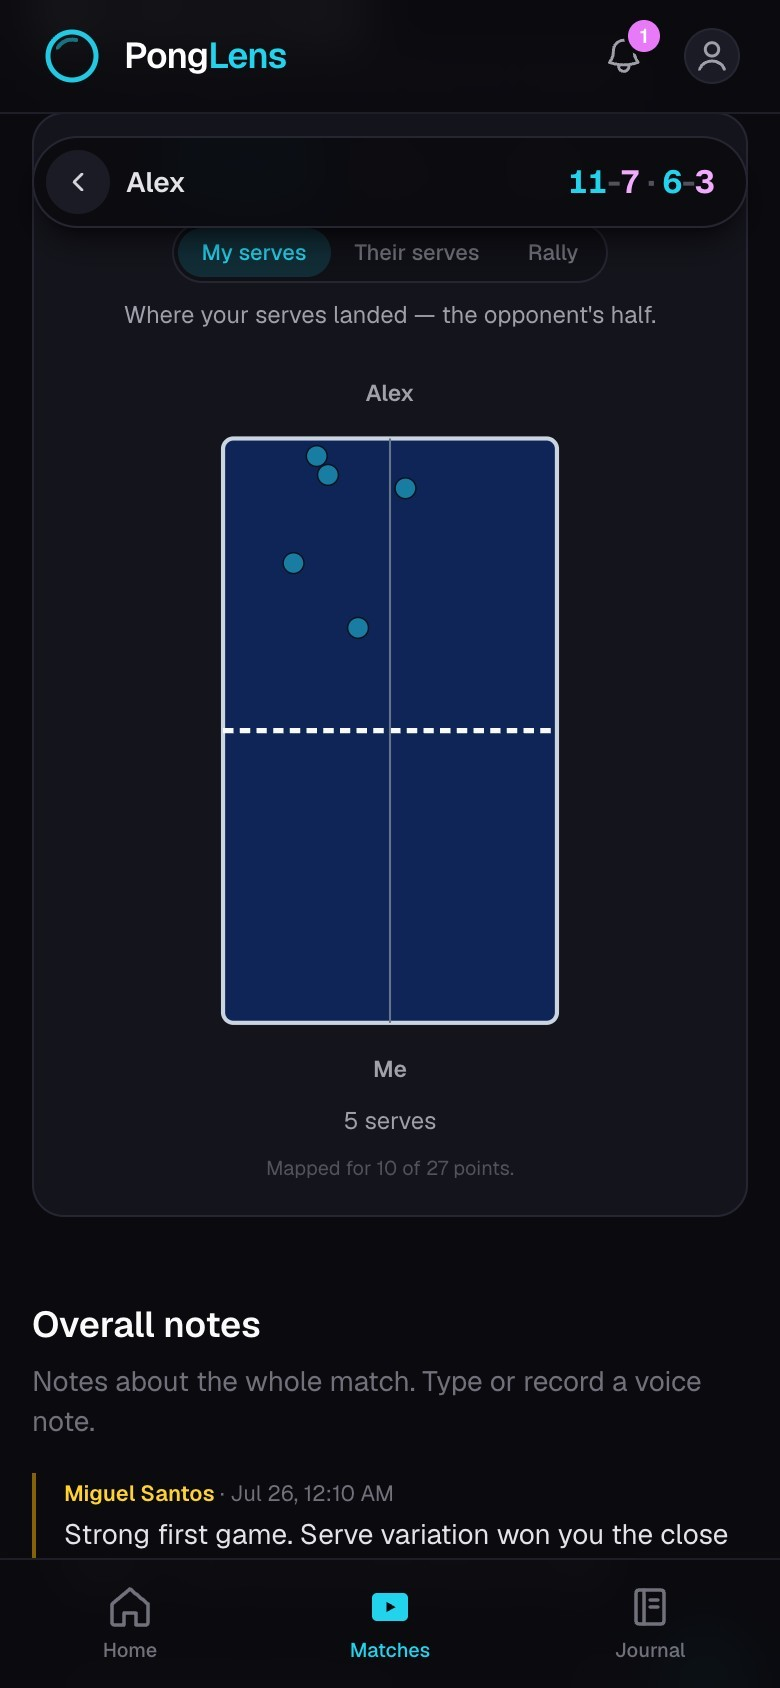
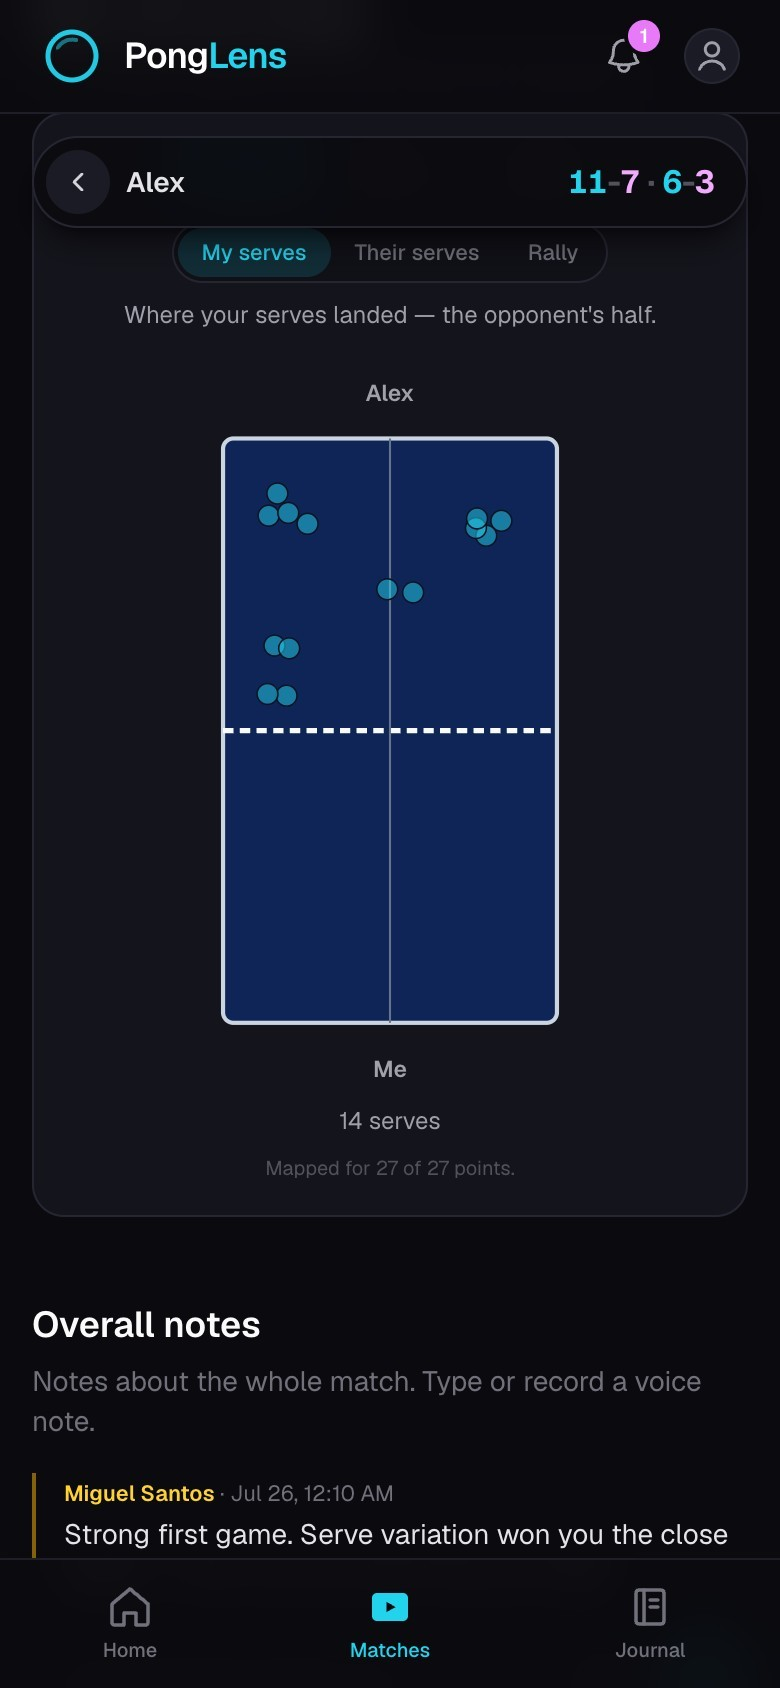
Demos: video blur pipeline + rich seeded placement data
blur_video.py extends the privacy blur to video (per-frame YOLO +
template matching, temporal union so boxes never flicker).
seed_placement.py stages dense, score-coherent v3 placement on the
demo Alex match; showcase placement stills re-shot against it.

diff --git a/scripts/demos/seed_placement.py b/scripts/demos/seed_placement.py
@@ -1,0 +1,231 @@
+#!/usr/bin/env python3
+"""Seed rich, realistic v3 placement data on the demo Alex match.
+
+    cd worker && venv/bin/python ../scripts/demos/seed_placement.py
+
+Demo staging only. The real vision output on the staged match maps too few
+points to make the ball maps look like the product at its best, so this
+replaces each point's placement HYPOTHESES with generated ones that are
+coherent with the scored facts: serve rotation decides the server, the
+seeded rally length follows the vision's n_hits, and the final shot matches
+confirmed_how (winner landing, net, out). Candidates are left untouched.
+
+Backs up every point's original placement JSON to
+scripts/demos/raw/placement-backup-<match>.json before writing. Restore:
+
+    cd worker && venv/bin/python ../scripts/demos/seed_placement.py --restore
+"""
+
+import json
+import random
+import sys
+from pathlib import Path
+
+sys.path.insert(0, str(Path(__file__).resolve().parents[2] / "worker"))
+import worker  # noqa: E402
+
+MATCH = "aa42d3b9-2109-4e02-a638-10297d0606e8"
+BACKUP = Path(__file__).resolve().parent / "raw" / f"placement-backup-{MATCH[:8]}.json"
+
+W, L, NET = 1.525, 2.74, 1.37
+
+# how the loser lost, when confirmed_how names an error
+ERROR_KIND = {
+    "missed_long": "out",
+    "missed_wide": "out",
+    "hit_into_net": "net",
+}
+
+
+def half_v(side, depth):
+    """v coordinate at `depth` (0 net .. 1 end line) into a physical half."""
+    return NET - depth * (NET - 0.16) if side == "near" else NET + depth * (L - 0.16 - NET)
+
+
+def serve_target(rng, who):
+    """(u, depth) for a serve landing, styled per player."""
+    if who == "user":
+        # mixes short-wide forehand with long backhand-corner serves
+        r = rng.random()
+        if r < 0.45:
+            return rng.uniform(1.08, 1.38), rng.uniform(0.12, 0.34)
+        if r < 0.8:
+            return rng.uniform(0.16, 0.44), rng.uniform(0.72, 0.94)
+        return rng.uniform(0.6, 0.9), rng.uniform(0.5, 0.75)
+    # opponent: mostly long into the middle/backhand
+    r = rng.random()
+    if r < 0.6:
+        return rng.uniform(0.5, 0.95), rng.uniform(0.7, 0.95)
+    if r < 0.85:
+        return rng.uniform(0.2, 0.5), rng.uniform(0.6, 0.9)
+    return rng.uniform(1.0, 1.3), rng.uniform(0.15, 0.4)
+
+
+def rally_target(rng, final=False, edge=False):
+    if edge:
+        return rng.uniform(0.3, 1.2), rng.uniform(0.96, 1.0)
+    if final:
+        # winners go to the corners / wide
+        u = rng.choice([rng.uniform(0.1, 0.32), rng.uniform(1.2, 1.42)])
+        return u, rng.uniform(0.55, 0.95)
+    return rng.uniform(0.25, 1.28), rng.uniform(0.45, 0.92)
+
+
+def event(u, v, conf, rng):
+    return {
+        "event_id": None,
+        "u": round(u, 3),
+        "v": round(v, 3),
+        "confidence": round(conf + rng.uniform(-0.06, 0.04), 2),
+        "inferred": False,
+    }
+
+
+def gen_shots(rng, server_side, server_who, winner_who, how, n_hits, pid):
+    """Coherent shot list in physical coords for one hypothesis."""
+    other_side = "far" if server_side == "near" else "near"
+    side_of = {server_who: server_side,
+               ("user" if server_who == "opponent" else "opponent"): other_side}
+    loser_who = "user" if winner_who == "opponent" else "opponent"
+
+    # ending: (final hitter, terminal kind or None-for-landing)
+    if how == "service_ace" and (n_hits or 1) <= 1:
+        ending = None                      # serve alone ends it
+    elif how in ERROR_KIND:
+        ending = (loser_who, ERROR_KIND[how])
+    elif how == "receive_error":
+        ending = (loser_who, rng.choice(["net", "out"]))
+    elif how in ("clean_winner", "edge_ball", "service_ace"):
+        ending = (winner_who, None)
+    else:  # unspecified: winner's ball lands 70%, loser error 30%
+        ending = (winner_who, None) if rng.random() < 0.7 \
+            else (loser_who, rng.choice(["net", "out"]))
+
+    n = max(1, min(n_hits or rng.randint(2, 5), 7))
+    if ending:
+        hitter_of = lambda k: server_who if k % 2 == 1 else \
+            ("user" if server_who == "opponent" else "opponent")
+        if n < 2:
+            n = 2
+        if hitter_of(n) != ending[0]:
+            n += 1
+
+    shots = []
+    for k in range(1, n + 1):
+        who = server_who if k % 2 == 1 else \
+            ("user" if server_who == "opponent" else "opponent")
+        side = side_of[who]
+        target_half = "far" if side == "near" else "near"
+        last = k == n
+        phase = "serve" if k == 1 else ("final" if last else "rally")
+        landing = None
+        terminal = None
+        if last and ending and ending[1]:
+            terminal = {"event_id": None, "kind": ending[1],
+                        "confidence": round(rng.uniform(0.72, 0.9), 2),
+                        "direction": None}
+        elif k == 1:
+            u, depth = serve_target(rng, who)
+            landing = event(u, half_v(target_half, depth), 0.88, rng)
+        else:
+            u, depth = rally_target(rng, final=last, edge=(how == "edge_ball" and last))
+            landing = event(u, half_v(target_half, depth), 0.82, rng)
+        shots.append({
+            "id": f"{pid[:8]}-s{k}",
+            "seq": k,
+            "phase": phase,
+            "hitter_side": side,
+            "contact_t": None,
+            "contact": None,
+            "serve_first_bounce": None,
+            "landing": landing,
+            "terminal": terminal,
+            "confidence": round(rng.uniform(0.74, 0.94), 2),
+        })
+    return shots
+
+
+def hypothesis(rng, server_side, server_who, winner, how, n_hits, pid, true_side):
+    conf = rng.uniform(0.86, 0.95) if true_side else rng.uniform(0.5, 0.6)
+    return {
+        "serverSide": server_side,
+        "server_side": server_side,
+        "status": "ready",
+        "confidence": round(conf, 2),
+        "score": round(conf * rng.uniform(0.9, 1.0), 2),
+        "reasons": [],
+        "hard_reasons": [],
+        "shots": gen_shots(rng, server_side, server_who, winner, how, n_hits, pid),
+        "used_event_ids": [],
+    }
+
+
+def main():
+    conn = worker.connect()
+    conn.autocommit = True
+    cur = conn.cursor()
+
+    if "--restore" in sys.argv:
+        saved = json.loads(BACKUP.read_text())
+        for pid, placement in saved.items():
+            cur.execute("update points set placement=%s::jsonb where id=%s",
+                        (json.dumps(placement), pid))
+        print(f"restored {len(saved)} points from {BACKUP.name}")
+        return
+
+    cur.execute(
+        """select id, idx, is_let, confirmed_winner, confirmed_how,
+                  coalesce((suggestion->>'n_hits')::int, 0), placement
+           from points where match_id=%s and not deleted order by idx""",
+        (MATCH,))
+    rows = cur.fetchall()
+
+    BACKUP.parent.mkdir(exist_ok=True)
+    if not BACKUP.exists():  # never clobber the original backup on re-runs
+        BACKUP.write_text(json.dumps({r[0]: r[6] for r in rows}))
+        print(f"backed up {len(rows)} placements -> {BACKUP.name}")
+
+    # walk games for rotation: 11 with 2 clear, first server alternates,
+    # 2-serve blocks (every point from 10-10). user_side='near', ends swap.
+    game, s_user, s_opp = 0, 0, 0
+    for pid, idx, is_let, winner, how, n_hits, _old in rows:
+        pre_sum = s_user + s_opp
+        first = "user" if game % 2 == 0 else "opponent"
+        block = pre_sum - 10 if min(s_user, s_opp) >= 10 else pre_sum // 2
+        server_who = first if block % 2 == 0 else \
+            ("user" if first == "opponent" else "opponent")
+        user_phys = "near" if game % 2 == 0 else "far"
+        server_phys = user_phys if server_who == "user" else \
+            ("far" if user_phys == "near" else "near")
+
+        rng = random.Random(f"{MATCH}:{idx}")
+        true_h = hypothesis(rng, server_phys, server_who, winner, how,
+                            n_hits, pid, True)
+        # counterfactual side: never selected once rotation is known, but
+        # kept coherent (as if the other side had served)
+        alt_who = "user" if server_who == "opponent" else "opponent"
+        alt_phys = "far" if server_phys == "near" else "near"
+        alt_h = hypothesis(rng, alt_phys, alt_who, winner, how,
+                           n_hits, pid, False)
+        hyps = {server_phys: true_h, alt_phys: alt_h}
+
+        cur.execute(
+            """update points set placement =
+                 jsonb_set(jsonb_set(placement, '{hypotheses}', %s::jsonb),
+                           '{status}', '"ready"')
+               where id=%s""",
+            (json.dumps(hyps), pid))
+
+        if not is_let and winner:
+            if winner == "user":
+                s_user += 1
+            else:
+                s_opp += 1
+            if max(s_user, s_opp) >= 11 and abs(s_user - s_opp) >= 2:
+                game, s_user, s_opp = game + 1, 0, 0
+
+    print(f"seeded {len(rows)} points on match {MATCH[:8]}")
+
+
+if __name__ == "__main__":
+    main()

diff --git a/scripts/demos/blur_video.py b/scripts/demos/blur_video.py
@@ -1,0 +1,122 @@
+#!/usr/bin/env python3
+"""Privacy blur for demo VIDEO clips — people and venue branding.
+
+    scripts/demos/venv-blur/bin/python scripts/demos/blur_video.py in.mp4 [out.mp4]
+
+The video counterpart of blur.py, sharing its detectors and guards.
+Detection runs per frame, but each frame blurs the UNION of boxes from a
+sliding window around it, so a detector missing one frame (or a box
+jittering) never makes the blur flicker — the cost is a slightly larger
+blurred region at motion edges, which is fine for privacy.
+
+  * people: YOLOv8n on every frame, union over +/-PERSON_WIN frames;
+  * neon sign / booking TV: template matching (same templates and
+    variance/pink guards as blur.py) sampled every TMPL_STEP frames,
+    union over +/-TMPL_WIN frames.
+
+Output is h264 yuv420p via ffmpeg, ready for the web. Default output:
+<input stem>-blur.mp4 beside the input.
+"""
+
+import subprocess
+import sys
+from pathlib import Path
+
+import cv2
+from ultralytics import YOLO
+
+from blur import ASSETS, TEMPLATES, PERSON_CONF, blur_box, template_boxes
+
+PERSON_WIN = 3   # frames of person-box union on each side
+TMPL_STEP = 5    # run template matching every Nth frame
+TMPL_WIN = 10    # frames of template-box union on each side
+
+
+def union_window(per_frame, i, win):
+    boxes = []
+    for j in range(max(0, i - win), min(len(per_frame), i + win + 1)):
+        boxes.extend(per_frame[j])
+    return boxes
+
+
+def main():
+    if len(sys.argv) < 2:
+        sys.exit(__doc__)
+    src = Path(sys.argv[1])
+    dst = Path(sys.argv[2]) if len(sys.argv) > 2 else src.with_name(
+        f"{src.stem}-blur.mp4")
+
+    cap = cv2.VideoCapture(str(src))
+    if not cap.isOpened():
+        sys.exit(f"cannot open {src}")
+    fps = cap.get(cv2.CAP_PROP_FPS) or 25
+    w = int(cap.get(cv2.CAP_PROP_FRAME_WIDTH))
+    h = int(cap.get(cv2.CAP_PROP_FRAME_HEIGHT))
+
+    model = YOLO("yolov8n.pt")
+    templates = [
+        cv2.cvtColor(cv2.imread(str(ASSETS / t)), cv2.COLOR_BGR2GRAY)
+        for t in TEMPLATES
+    ]
+
+    # pass 1 — detect
+    persons, marks = [], []
+    n = 0
+    while True:
+        ok, frame = cap.read()
+        if not ok:
+            break
+        r = model(frame, classes=[0], conf=PERSON_CONF, verbose=False)[0]
+        persons.append(
+            [tuple(b) for b in r.boxes.xyxy.cpu().numpy().astype(int)])
+        if n % TMPL_STEP == 0:
+            gray = cv2.cvtColor(frame, cv2.COLOR_BGR2GRAY)
+            found = []
+            for tmpl in templates:
+                found.extend(
+                    (x1, y1, x2, y2)
+                    for x1, y1, x2, y2, _ in template_boxes(frame, gray, tmpl))
+            marks.append(found)
+        else:
+            marks.append([])
+        n += 1
+        if n % 50 == 0:
+            print(f"  detect {n} frames…", flush=True)
+    cap.release()
+    print(f"{src.name}: {n} frames, "
+          f"{sum(len(p) for p in persons)} person boxes, "
+          f"{sum(len(m) for m in marks)} branding boxes")
+
+    # pass 2 — blur with temporal union, pipe straight into ffmpeg
+    ff = subprocess.Popen(
+        ["ffmpeg", "-y", "-loglevel", "error",
+         "-f", "rawvideo", "-pix_fmt", "bgr24", "-s", f"{w}x{h}",
+         "-r", f"{fps}", "-i", "-",
+         "-c:v", "libx264", "-preset", "medium", "-crf", "18",
+         "-pix_fmt", "yuv420p", "-movflags", "+faststart",
+         "-vf", "crop=trunc(iw/2)*2:trunc(ih/2)*2",
+         str(dst)],
+        stdin=subprocess.PIPE,
+    )
+    cap = cv2.VideoCapture(str(src))
+    i = 0
+    while True:
+        ok, frame = cap.read()
+        if not ok:
+            break
+        for box in union_window(persons, i, PERSON_WIN):
+            blur_box(frame, *box)
+        for box in union_window(marks, i, TMPL_WIN):
+            blur_box(frame, *box)
+        ff.stdin.write(frame.tobytes())
+        i += 1
+    cap.release()
+    ff.stdin.close()
+    ff.wait()
+    if ff.returncode:
+        sys.exit("ffmpeg failed")
+    print(f"-> {dst}")
+
+
+if __name__ == "__main__":
+    main()
